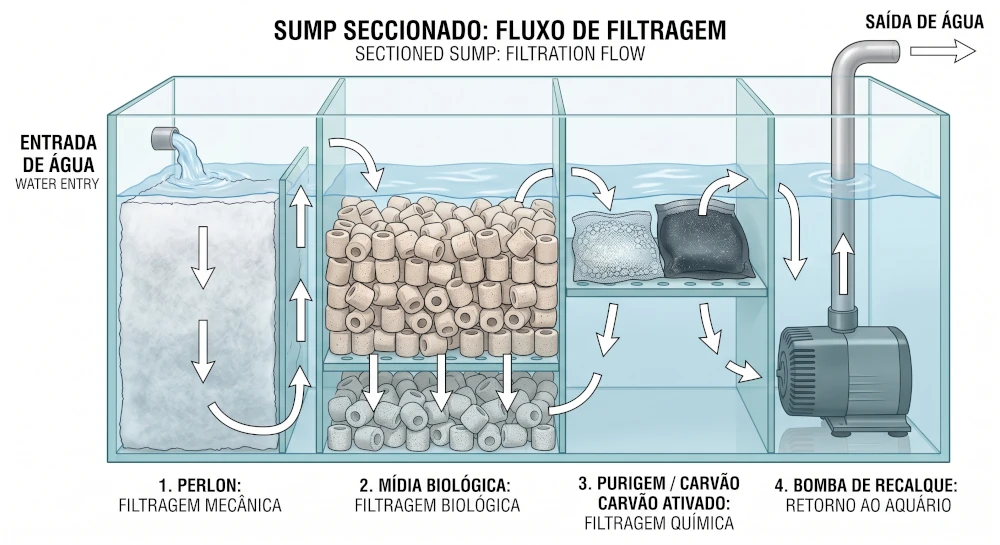
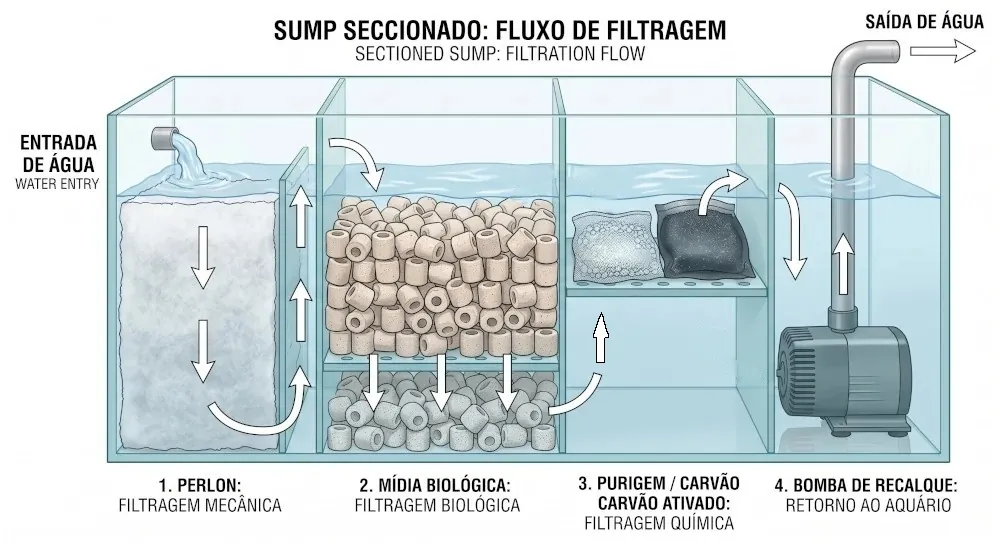
mudança imagem sump

diff --git a/guias/estagios-da-filtragem.html b/guias/estagios-da-filtragem.html
@@ -90,7 +90,7 @@
               <li><strong>1º estágio:</strong> filtragem mecânica para barrar a sujeira grossa.</li>
               <li><strong>2º estágio:</strong>  filtragem biológica aeróbia, o motor do aquário.</li>
               <li><strong>3º estágio:</strong> filtragem química para remover odores e compostos indesejados.</li>
-              <li><strong>4º estágio:</strong> recalque e devolução da água limpa ao sistema.</li>
+              <li><strong>4º estágio:</strong> filtragem biológica anaeróbia, que elimina o nitrato.</li>
             </ul>
           </section>
 
@@ -136,11 +136,13 @@
               <h2>Filtragem Biológica Anaeróbia</h2>
               <p>Você sabia que é possível fechar o ciclo do nitrogênio dentro do seu filtro? Em locais com <strong>fluxo lento e baixo teor de oxigênio</strong>, desenvolvem-se as chamadas <strong>bactérias anaeróbias</strong>.</p>
               <p>Essas bactérias consomem o nitrato (NO3) e o transformam em gás nitrogênio (N2), que simplesmente se dissipa na atmosfera. Para criar essa zona de baixo oxigênio, basta usar uma camada mais generosa de substrato fino no aquário(como areia de filtro). Quando você notar pequenas bolhas de gás subindo dessa região, pode comemorar: é o seu ecossistema eliminando nitrato de forma 100% natural!</p>
+             <p>Em alguns sistemas de filtragem como sump, é possível criar zonas anaeróbias dedicadas, onde o fluxo de água é lento e o oxigênio é limitado, favorecendo a ação das bactérias anaeróbias.</p>
+              <p>Outra forma de eliminar o nitrato é através de plantas aquáticas, que absorvem os nutrientes diretamente da água, contribuindo para a manutenção de um aquário equilibrado.</p>
             </section>
 
             <section id="conclusao-e-proximos-passos">
               <h2>Conclusão e Próximos Passos no Seu Aquário</h2>
-              <p>Seguir a ordem ideal da filtragem — <strong>mecânica, química, biológica aeróbia, biológica anaeróbia e recalque</strong> — é uma das formas mais seguras de manter um aquário saudável, equilibrado e visualmente agradável.</p>
+              <p>Seguir a ordem ideal da filtragem — <strong>mecânica, química, biológica aeróbia, biológica e anaeróbia</strong> — é uma das formas mais seguras de manter um aquário saudável, equilibrado e visualmente agradável.</p>
               <p>Como está configurada a filtragem do seu aquário atualmente? Você já usava mídias fluidizadas ou zonas anaeróbias? Esse é o tipo de ajuste que reduz manutenção, protege seus peixes e melhora a estabilidade do sistema no longo prazo.</p>
 
               <h3>Aprofunde seus conhecimentos</h3>
